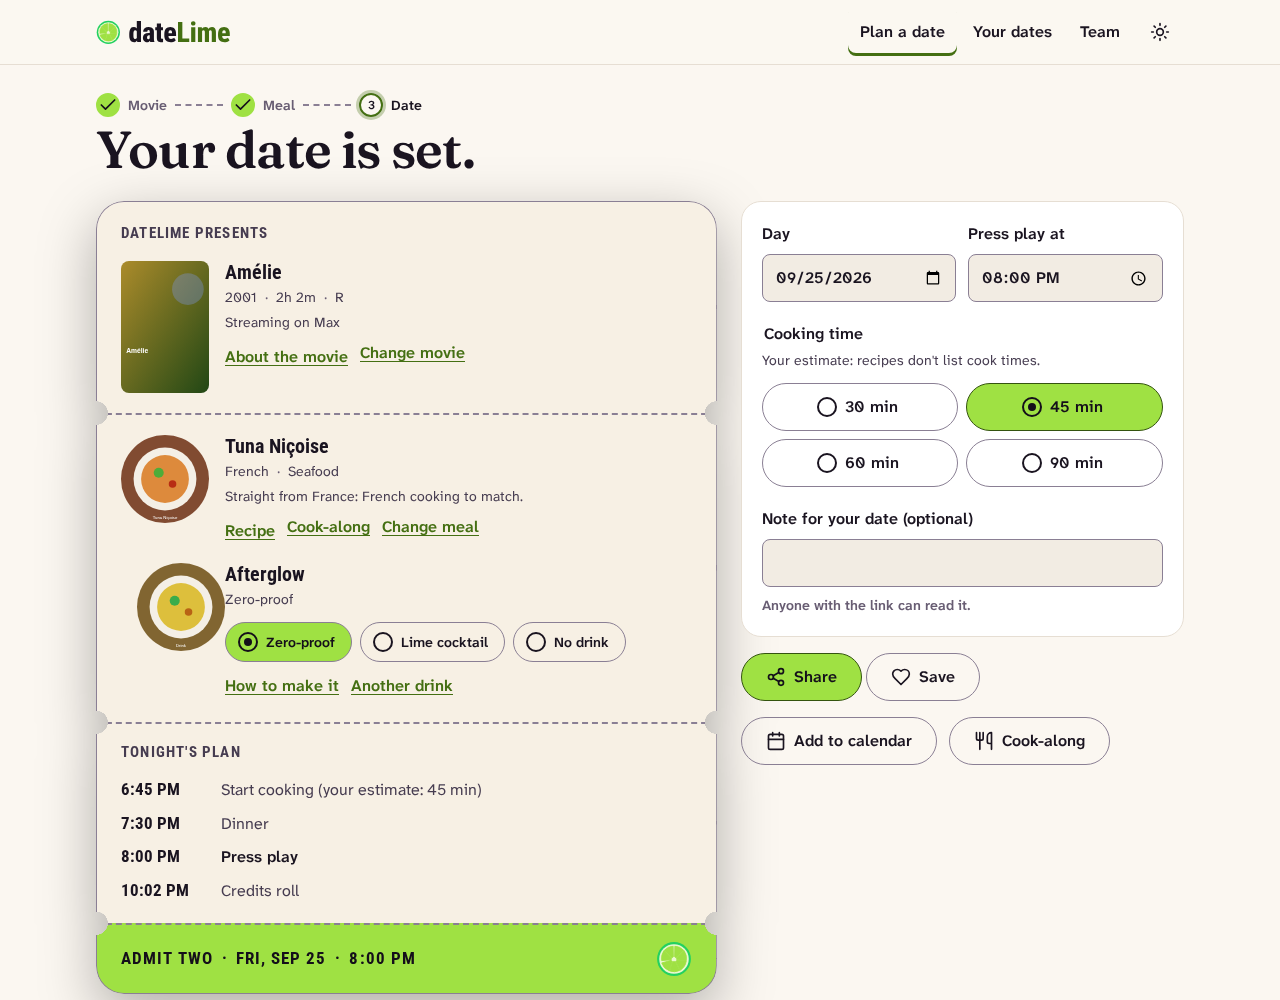
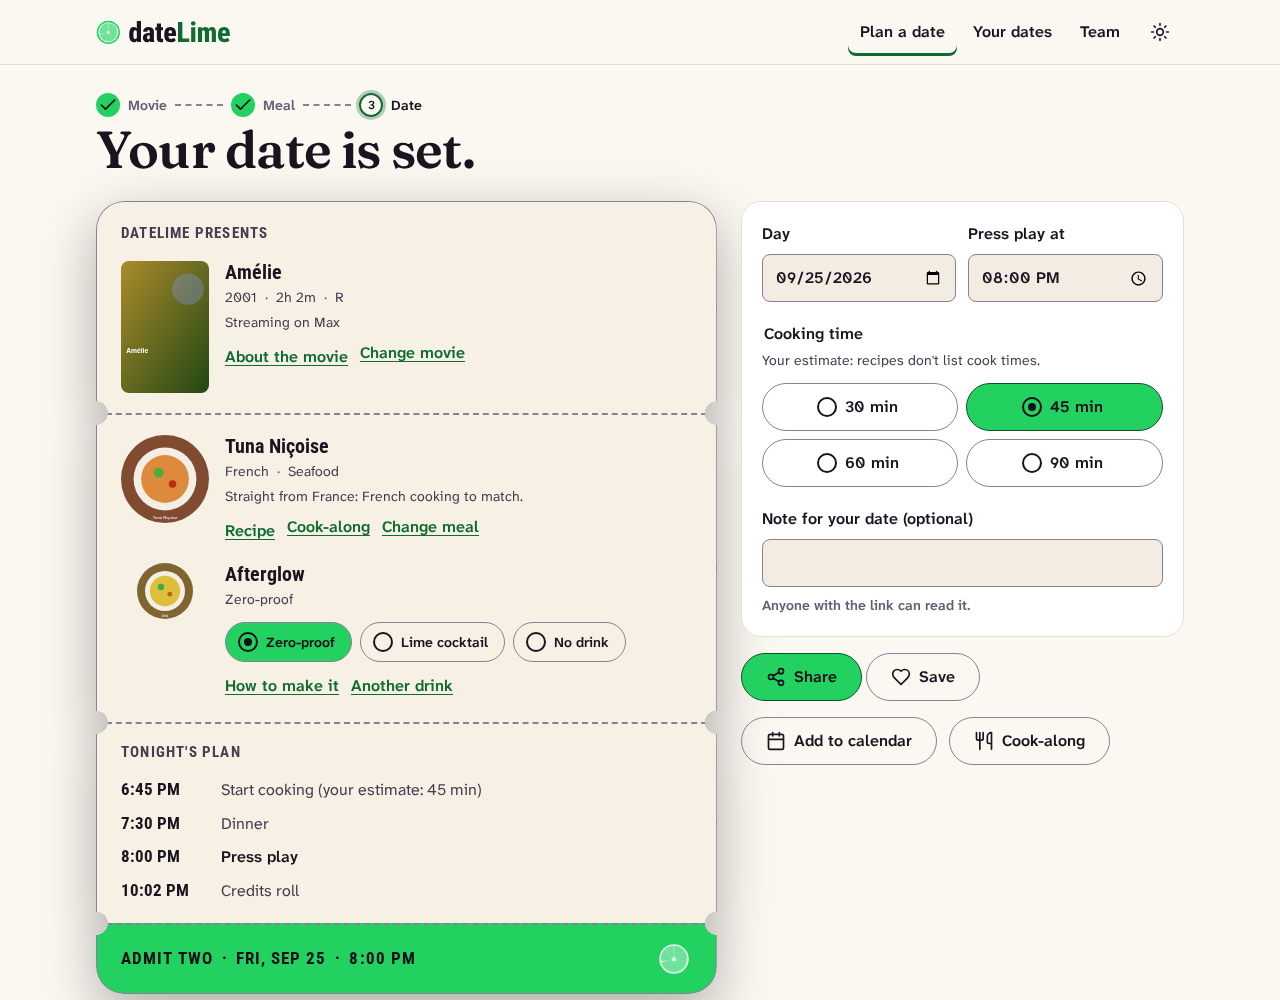
Keep the original dateLime green (#23D160) as the brand lime
The product owner compared both limes on real screens and chose the
original. The --lime-* scale is rebuilt around #23D160, and the pale greens
derived from the old hue (tints, selection, success backgrounds) now match
it. The lime slice keeps two tones: a #23D160 rind with lighter #6FE19A
flesh. Every pairing still passes WCAG AA; velvet on the green is 9.3:1.
The spec's color table and contrast report, the README and the screenshots
are updated.

Claude-Session: https://claude.ai/code/session_0193ih4Gz66rMWbXxf8apoBW

diff --git a/assets/css/tokens.css b/assets/css/tokens.css
@@ -5,17 +5,17 @@
 
 @layer tokens {
   :root {
-    /* Lime scale: Zest #9FE143 (400). Heritage #23D160 lives on in the logo's rind. */
-    --lime-50: #f6fce9;
-    --lime-100: #eaf8cf;
-    --lime-200: #d6f2a3;
-    --lime-300: #bdeb74;
-    --lime-400: #9fe143;
-    --lime-500: #84c92f;
-    --lime-600: #64a01e;
-    --lime-700: #446f12;
-    --lime-800: #34540f;
-    --lime-900: #263d0c;
+    /* Lime scale built around the original dateLime green, #23D160 (400). */
+    --lime-50: #ecfbf1;
+    --lime-100: #d3f6df;
+    --lime-200: #a8edc0;
+    --lime-300: #6fe19a;
+    --lime-400: #23d160;
+    --lime-500: #1db553;
+    --lime-600: #178f42;
+    --lime-700: #106b31;
+    --lime-800: #0c5226;
+    --lime-900: #083b1b;
     --heritage-lime: #23d160;
     --velvet: #140f1a;
     --ink: #1a1420;
@@ -107,14 +107,14 @@
     --color-on-brand: var(--velvet);
     --color-brand-edge: transparent;
     --color-brand-edge-strong: var(--lime-400);
-    --color-brand-tint: #25281f;
+    --color-brand-tint: #1c2a22;
     --color-indicator: var(--lime-400);
     --color-border: #7a6e88;
     --color-hairline: #372c42;
     --color-focus: var(--lime-200);
-    --color-selection: #3d4a2a;
+    --color-selection: #264a33;
     --color-success: var(--lime-300);
-    --color-success-bg: #1e2e12;
+    --color-success-bg: #13301f;
     --color-warning: #ffc96b;
     --color-warning-bg: #3a2b12;
     --color-danger: #ff8a73;
@@ -131,7 +131,7 @@
     --wordmark-lime: var(--lime-400);
     --slice-rind: var(--heritage-lime);
     --slice-pith: var(--lime-100);
-    --slice-flesh: var(--lime-400);
+    --slice-flesh: var(--lime-300);
     /* The ticket stays velvet at night; paper would glare (16.66:1 against the page). */
     --ticket-bg: #1e1726;
     --ticket-edge: transparent;
@@ -159,21 +159,21 @@
     --color-text-muted: #685d73;
     --color-link: var(--lime-700);
     --color-brand-text: var(--lime-700);
-    /* Zest can't draw its own edge on paper (1.48:1), so every lime fill gets a dark rim. */
+    /* The lime can't draw its own edge on paper, so every lime fill gets a dark rim. */
     --color-brand: var(--lime-400);
     --color-brand-hover: var(--lime-300);
     --color-brand-active: var(--lime-500);
     --color-on-brand: var(--velvet);
     --color-brand-edge: var(--lime-800);
     --color-brand-edge-strong: var(--lime-800);
-    --color-brand-tint: #eef8dc;
+    --color-brand-tint: #e6f8ec;
     --color-indicator: var(--lime-700);
     --color-border: #8a7f94;
     --color-hairline: #e6ded3;
     --color-focus: var(--lime-700);
-    --color-selection: #d6f2a3;
+    --color-selection: #a8edc0;
     --color-success: var(--lime-800);
-    --color-success-bg: #eef8dc;
+    --color-success-bg: #e6f8ec;
     --color-warning: #8a5200;
     --color-warning-bg: #fff3da;
     --color-danger: #b42a1a;
@@ -190,7 +190,7 @@
     --wordmark-lime: var(--lime-700);
     --slice-rind: var(--heritage-lime);
     --slice-pith: var(--lime-100);
-    --slice-flesh: var(--lime-400);
+    --slice-flesh: var(--lime-300);
     --ticket-bg: var(--paper);
     --ticket-edge: #8a7f94;
     --ticket-text: var(--ink);

diff --git a/assets/css/views.css b/assets/css/views.css
@@ -54,7 +54,7 @@
     --wordmark-lime: var(--lime-400);
   }
   :root[data-theme='light'] .stage {
-    /* Matinee: the heritage lime field, now in Zest, with an all-velvet wordmark (11.97:1). */
+    /* Matinee: the heritage lime field, with an all-velvet wordmark. */
     background: var(--lime-400);
     color: var(--velvet);
     --wordmark-date: var(--velvet);

diff --git a/docs/design/06-decision.md b/docs/design/06-decision.md
@@ -12,7 +12,7 @@ follows. The debate itself is in 00–05. Both analysts signed off on every row 
 | 2. Cross-critique | The analysts persuaded each other so thoroughly that they **swapped sides on six questions**: brand hue, serif, swiping, moods, photo shape and poster grid. They converged on the velvet page, link-plus-text sharing, the SVG wordmark and four MUSTs. |
 | 3. Resolution | A proposed a middle ground for each of the 10 open items. B accepted 9 and countered 1: how the Fraunces font loads, since `optional` in a single-page app means first visits never see it. A accepted the counter. **All 10 items were agreed, so no architect tie-break was needed.** |
 
-**One open dependency: the product owner's sign-off on the lime hue.** Zest **#9FE143** replaces the heritage **#23D160** for UI fills. The heritage green lives on as the rind of the lime-slice logo. Reverting means changing the `--lime-*` block in `assets/css/tokens.css`, and the contrast test will then say which pairings need adjusting.
+**The lime hue: the original green stays.** The analysts proposed a yellower "Zest" lime (#9FE143). After comparing both on real screens, the product owner kept the original **#23D160**, and the `--lime-*` scale in `assets/css/tokens.css` is built around it. It passes every contrast check below. The 2022 failure was white text on the green, not the green itself.
 
 ## Design language: "Limelight × Couch-Proof"
 
@@ -38,13 +38,13 @@ Two themes: **Late Show** (dark, velvet) and **Matinee** (light, program paper).
 |---|---|---|
 | Page / raised / overlay | #140F1A / #1E1726 / #2A2133 | #FBF7F1 / #FFFFFF / #FFFFFF |
 | Text / secondary / muted | #F6F2EC / #D2C8DC / #A89CB6 | #1A1420 / #463C50 / #685D73 |
-| Brand fill (hover, pressed) | Zest #9FE143 (#BDEB74, #84C92F) | Same, **plus a 1.5px #34540F edge** |
+| Brand fill (hover, pressed) | #23D160 (#6FE19A, #1DB553) | Same, **plus a 1.5px #0C5226 edge** |
 | Label on brand | velvet #140F1A | velvet #140F1A |
-| Link / brand text | #BDEB74 / #9FE143 | #446F12 |
-| Focus ring (3px, 2px offset) | #D6F2A3 | #446F12 |
-| Ticket | raised velvet #1E1726 + Zest stub | paper #F7F0E4 + Zest stub |
-| Wordmark "Lime" | Zest | #446F12 (on the lime-field hero, the whole wordmark is velvet) |
-| Heritage #23D160 | the lime-slice rind | the lime-slice rind |
+| Link / brand text | #6FE19A / #23D160 | #106B31 |
+| Focus ring (3px, 2px offset) | #A8EDC0 | #106B31 |
+| Ticket | raised velvet #1E1726 + lime stub | paper #F7F0E4 + lime stub |
+| Wordmark "Lime" | #23D160 | #106B31 (on the lime-field hero, the whole wordmark is velvet) |
+| Lime slice | #23D160 rind, #6FE19A flesh | the same |
 
 **Measured contrast.** The table is generated by `node scripts/contrast-report.mjs`. The same pairings, plus about 40 more, are enforced by `tests/unit/contrast.test.js` in both themes.
 
@@ -54,15 +54,18 @@ Two themes: **Late Show** (dark, velvet) and **Matinee** (light, program paper).
 | Body text on raised card | 15.62:1 | 18.03:1 | 4.5:1 |
 | Secondary text on page | 11.71:1 | 9.73:1 | 4.5:1 |
 | Muted text on overlay (worst case) | 5.94:1 | 6.17:1 | 4.5:1 |
-| Link on page | 13.75:1 | 5.58:1 | 4.5:1 |
-| Label on primary button | 11.97:1 | 11.97:1 | 4.5:1 |
-| Label on pressed button | 9.32:1 | 9.32:1 | 4.5:1 |
-| Primary button edge vs page | n/a | 8.13:1 | 3:1 |
+| Link on page | 11.60:1 | 6.21:1 | 4.5:1 |
+| Brand text on page | 9.31:1 | 6.21:1 | 4.5:1 |
+| Label on primary button | 9.31:1 | 9.31:1 | 4.5:1 |
+| Label on pressed button | 7.00:1 | 7.00:1 | 4.5:1 |
+| Primary button edge vs page | n/a | 8.74:1 | 3:1 |
+| Primary fill vs page | 9.31:1 | 1.90:1 (edge carries it) | 3:1 |
 | Control border vs page | 3.97:1 | 3.55:1 | 3:1 |
-| Focus ring vs page | 15.35:1 | 5.58:1 | 3:1 |
+| Focus ring vs page | 13.96:1 | 6.21:1 | 3:1 |
 | Ticket text on ticket | 15.62:1 | 15.92:1 | 4.5:1 |
-| Ticket stub label | 11.97:1 | 11.97:1 | 4.5:1 |
-| Wordmark "Lime" on page | 11.97:1 | 5.58:1 | 4.5:1 |
+| Ticket stub label | 9.31:1 | 9.31:1 | 4.5:1 |
+| Danger text on page | 8.21:1 | 5.99:1 | 4.5:1 |
+| Wordmark "Lime" on page | 9.31:1 | 6.21:1 | 4.5:1 |
 
 For comparison, the 2022 site had white on #23D160 at **2.03:1**, which fails for every text size.
 
@@ -195,6 +198,5 @@ These are refinements within the agreed decisions, not overrides:
 Each MUST and SHOULD feature has browser tests for its main behavior in `tests/e2e/`, run on desktop Chrome and a Pixel 7 against mocked APIs. The logic behind them (pairing tiers, diet relaxation, timers, `.ics`) has unit tests. The axe-core audits pass on every screen in both themes. Some details are checked only by review, not by tests: the chime and vibration, and the 64px Back and Next buttons.
 
 **Still open for the product owners:**
-1. Sign off on Zest `#9FE143`, or revert the `--lime-*` tokens.
-2. Run the five-couple hallway test before Match Night is promoted.
-3. Revoke the two RapidAPI keys left in the git history (audit item 17).
+1. Run the five-couple hallway test before Match Night is promoted.
+2. Revoke the two RapidAPI keys left in the git history (audit item 17).

diff --git a/README.md b/README.md
@@ -60,7 +60,7 @@ The redesign keeps the logo and the idea of the original site. It was decided by
 
 **The design language, "Limelight × Couch-Proof", in short:**
 
-- **Lights down, lime up.** Velvet surfaces (`#140F1A`) do the quiet work, and lime is the only vivid color on screen. The UI lime is **Zest `#9FE143`**, while the original **`#23D160`** lives on as the rind of the lime-slice logo. *The Zest refinement needs the team's sign-off.* Reverting is a change to the `--lime-*` tokens in [`tokens.css`](assets/css/tokens.css), and the contrast test then flags any pairing that needs adjusting.
+- **Lights down, lime up.** Velvet surfaces (`#140F1A`) do the quiet work, and lime is the only vivid color on screen. The lime is the original dateLime green, **`#23D160`**, with a scale built around it in [`tokens.css`](assets/css/tokens.css). It sits under dark text (9.3:1), never white.
 - **Two people, one phone.** Touch targets are at least 48px, type is readable at arm's length, and the main action sits within thumb reach.
 - **Defaults, not dead ends.** Every form works as it is, every empty state offers a way to loosen the filters, and every error has a retry.
 - **Honest data.** No invented cook times, difficulty or servings, and real certifications only.
